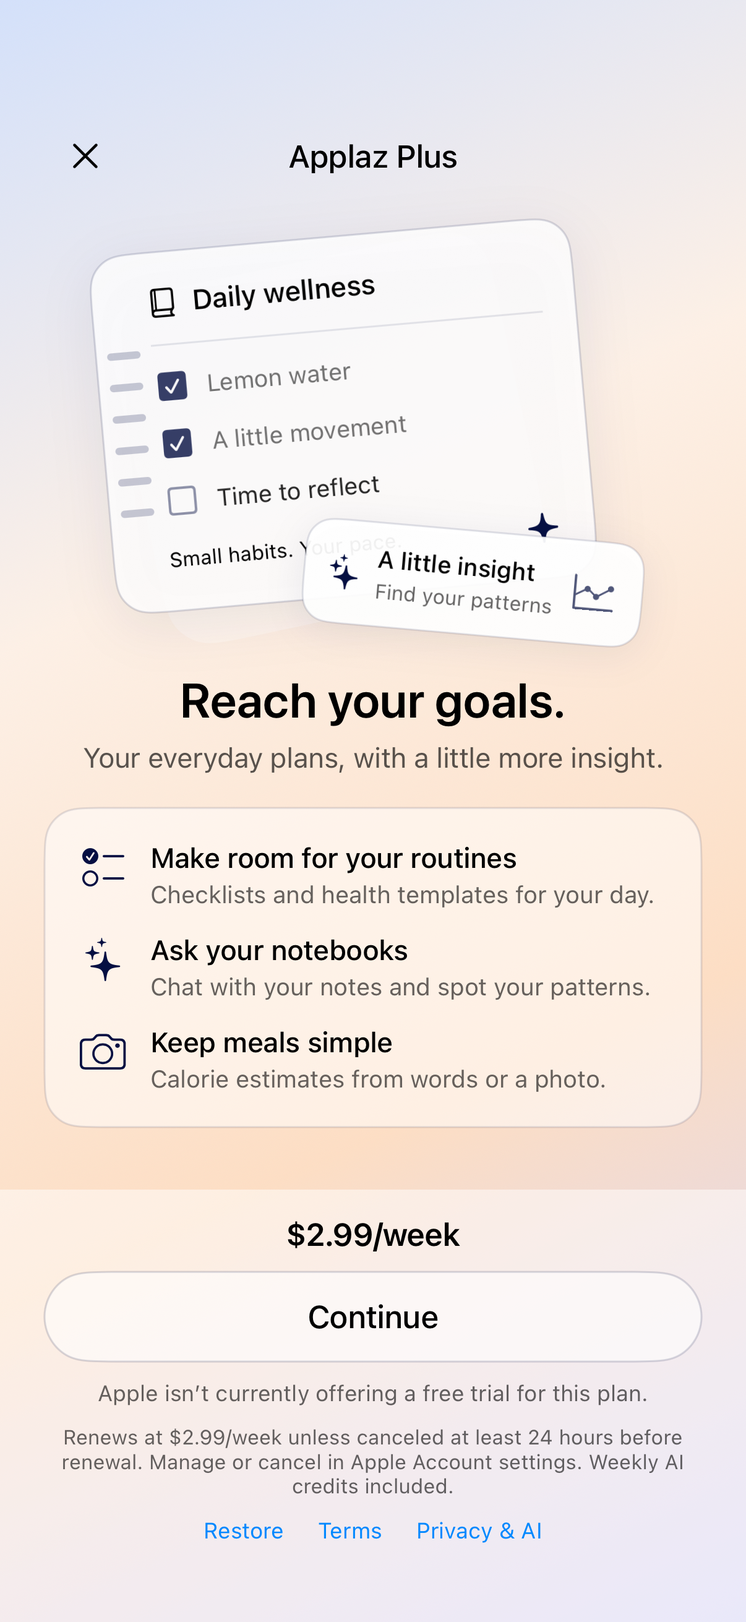
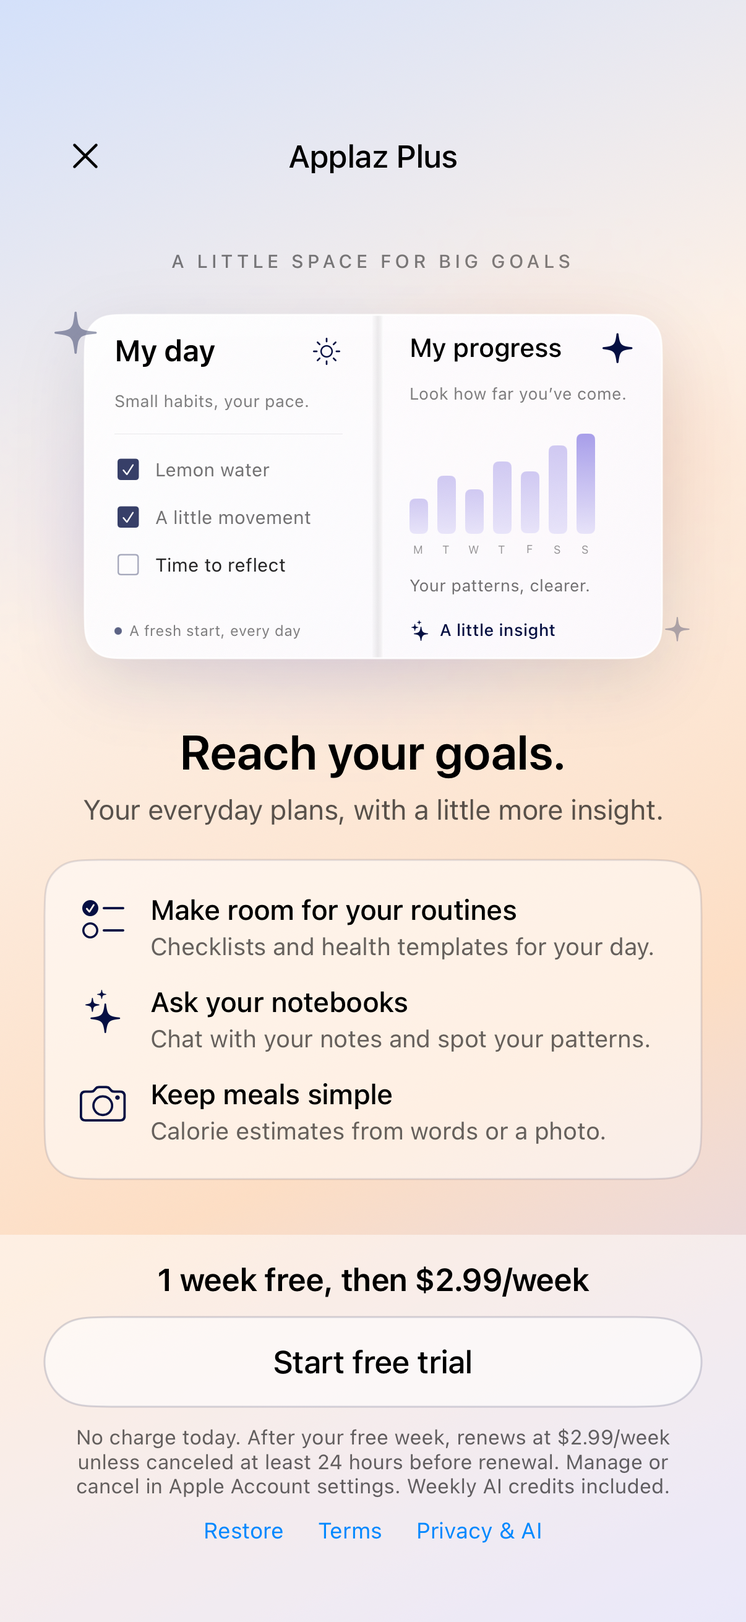
Finish notebook editing lists and redesign the subscription hero and purchase flow

Changed region(s): [[0.0, 0.1545, 0.9511, 0.9268], [0.9204, 0.8032, 0.9511, 0.8341], [0.0614, 0.8032, 0.092, 0.8341]]

diff --git a/Notes/Wellness/WellnessScreens.swift b/Notes/Wellness/WellnessScreens.swift
@@ -58,7 +58,7 @@ struct SubscriptionWelcomeView: View {
                         Spacer()
                         Color.clear.frame(width: 44, height: 44)
                     }
-                    SubscriptionNotebookPreview().frame(height: 220).accessibilityHidden(true)
+                    SubscriptionNotebookPreview().frame(height: 248).accessibilityHidden(true)
                     VStack(spacing: 6) {
                         Text("Reach your goals.").font(.system(size: 26, weight: .semibold))
                         Text("Your everyday plans, with a little more insight.")
@@ -151,44 +151,53 @@ struct SubscriptionWelcomeView: View {
 }
 
 private struct SubscriptionNotebookPreview: View {
+    private let bars: [CGFloat] = [0.35, 0.58, 0.44, 0.72, 0.62, 0.88, 1]
     var body: some View {
-        ZStack {
-            RoundedRectangle(cornerRadius: 26).fill(Color.white.opacity(0.28))
-                .frame(width: 210, height: 192).rotationEffect(.degrees(-12)).offset(x: -24, y: 2)
-            HStack(spacing: 0) {
-                VStack(spacing: 13) {
-                    ForEach(0..<6, id: \.self) { _ in Capsule().fill(Color.applazAccent.opacity(0.22)).frame(width: 18, height: 4) }
-                }.frame(width: 30)
-                VStack(alignment: .leading, spacing: 13) {
-                    HStack { Image(systemName: "book.closed"); Text("Daily wellness").fontWeight(.medium) }.font(.system(size: 15))
-                    Rectangle().fill(Color.applazAccent.opacity(0.1)).frame(height: 1)
-                    row("Lemon water", checked: true)
-                    row("A little movement", checked: true)
-                    row("Time to reflect", checked: false)
-                    HStack { Text("Small habits. Your pace.").font(.system(size: 11)); Spacer(); Image(systemName: "sparkle").foregroundColor(.applazAccent) }
-                }.padding(.vertical, 18).padding(.trailing, 18)
-            }.frame(width: 260).background(Color.white.opacity(0.8))
-                .clipShape(RoundedRectangle(cornerRadius: 19))
-                .overlay(RoundedRectangle(cornerRadius: 19).stroke(Color.applazAccent.opacity(0.15)))
-                .shadow(color: Color.applazAccent.opacity(0.1), radius: 14, y: 7)
-                .rotationEffect(.degrees(-5)).offset(x: -16, y: -10)
-            HStack(spacing: 8) {
-                Image(systemName: "sparkles").foregroundColor(.applazAccent)
-                VStack(alignment: .leading, spacing: 3) {
-                    Text("A little insight").font(.system(size: 13, weight: .medium))
-                    Text("Find your patterns").font(.system(size: 11)).foregroundColor(.black.opacity(0.6))
+        VStack(spacing: 16) {
+            Text("A LITTLE SPACE FOR BIG GOALS").font(.system(size: 10, weight: .medium)).tracking(2).foregroundColor(.black.opacity(0.5))
+            ZStack {
+                Ellipse().fill(Color(red: 0.77, green: 0.74, blue: 1).opacity(0.35)).frame(width: 280, height: 140).blur(radius: 28).offset(x: -22, y: 25)
+                Ellipse().fill(Color(red: 1, green: 0.81, blue: 0.69).opacity(0.45)).frame(width: 180, height: 140).blur(radius: 28).offset(x: 90, y: -15)
+                HStack(spacing: 0) {
+                    VStack(alignment: .leading, spacing: 12) {
+                        HStack { Text("My day").font(.system(size: 16, weight: .semibold)); Spacer(); Image(systemName: "sun.max").font(.system(size: 14, weight: .light)).foregroundColor(.applazAccent) }
+                        Text("Small habits, your pace.").font(.system(size: 9)).foregroundColor(.black.opacity(0.5))
+                        Divider().opacity(0.35)
+                        habit("Lemon water", done: true)
+                        habit("A little movement", done: true)
+                        habit("Time to reflect", done: false)
+                        Spacer(minLength: 0)
+                        HStack(spacing: 4) { Circle().fill(Color.applazAccent.opacity(0.65)).frame(width: 4, height: 4); Text("A fresh start, every day").font(.system(size: 8)).foregroundColor(.black.opacity(0.5)) }
+                    }.padding(16).frame(width: 155, height: 185)
+                    LinearGradient(colors: [.black.opacity(0.015), .black.opacity(0.07), .white.opacity(0.6)], startPoint: .leading, endPoint: .trailing).frame(width: 6, height: 185)
+                    VStack(alignment: .leading, spacing: 10) {
+                        HStack { Text("My progress").font(.system(size: 14, weight: .medium)); Spacer(); Image(systemName: "sparkle").font(.system(size: 17, weight: .light)).foregroundColor(.applazAccent) }
+                        Text("Look how far you’ve come.").font(.system(size: 9)).foregroundColor(.black.opacity(0.5))
+                        HStack(alignment: .bottom, spacing: 5) {
+                            ForEach(Array(bars.enumerated()), id: \.offset) { index, value in
+                                VStack(spacing: 5) {
+                                    RoundedRectangle(cornerRadius: 3).fill(LinearGradient(colors: [Color(red: 0.64, green: 0.60, blue: 0.91).opacity(index == 6 ? 0.95 : 0.5), Color(red: 0.79, green: 0.77, blue: 0.96).opacity(0.4)], startPoint: .top, endPoint: .bottom)).frame(width: 10, height: 54 * value)
+                                    Text(["M", "T", "W", "T", "F", "S", "S"][index]).font(.system(size: 6)).foregroundColor(.black.opacity(0.4))
+                                }
+                            }
+                        }.frame(height: 72, alignment: .bottom)
+                        Text("Your patterns, clearer.").font(.system(size: 9)).foregroundColor(.black.opacity(0.55))
+                        HStack(spacing: 5) { Image(systemName: "sparkles").font(.system(size: 10)); Text("A little insight").font(.system(size: 9, weight: .medium)) }.foregroundColor(.applazAccent).padding(.top, 2)
+                    }.padding(14).frame(width: 150, height: 185)
                 }
-                Image(systemName: "chart.xyaxis.line").font(.system(size: 21, weight: .light)).foregroundColor(.applazAccent.opacity(0.7))
-            }.padding(12).background(Color.white.opacity(0.94)).clipShape(RoundedRectangle(cornerRadius: 15))
-                .overlay(RoundedRectangle(cornerRadius: 15).stroke(Color.applazAccent.opacity(0.12)))
-                .shadow(color: Color.applazAccent.opacity(0.08), radius: 10, y: 4)
-                .rotationEffect(.degrees(5)).offset(x: 54, y: 80)
+                .background(LinearGradient(colors: [.white.opacity(0.97), Color(red: 0.99, green: 0.98, blue: 1).opacity(0.95)], startPoint: .topLeading, endPoint: .bottomTrailing))
+                .clipShape(RoundedRectangle(cornerRadius: 16))
+                .overlay(RoundedRectangle(cornerRadius: 16).stroke(Color.white.opacity(0.9), lineWidth: 1))
+                .shadow(color: Color.applazAccent.opacity(0.12), radius: 18, x: 0, y: 12)
+                Image(systemName: "sparkle").font(.system(size: 24, weight: .ultraLight)).foregroundColor(.applazAccent.opacity(0.4)).offset(x: -160, y: -83)
+                Image(systemName: "sparkle").font(.system(size: 14, weight: .ultraLight)).foregroundColor(.applazAccent.opacity(0.3)).offset(x: 164, y: 77)
+            }.frame(height: 199)
         }.foregroundColor(.black)
     }
-    private func row(_ title: String, checked: Bool) -> some View {
-        HStack(spacing: 9) {
-            Image(systemName: checked ? "checkmark.square.fill" : "square").foregroundColor(.applazAccent.opacity(checked ? 0.8 : 0.45))
-            Text(title).font(.system(size: 13)).foregroundColor(.black.opacity(checked ? 0.55 : 0.85))
+    private func habit(_ title: String, done: Bool) -> some View {
+        HStack(spacing: 7) {
+            Image(systemName: done ? "checkmark.square.fill" : "square").font(.system(size: 13, weight: .light)).foregroundColor(.applazAccent.opacity(done ? 0.8 : 0.35))
+            Text(title).font(.system(size: 10)).foregroundColor(.black.opacity(done ? 0.55 : 0.85))
         }
     }
 }
@@ -248,7 +257,7 @@ struct WellnessLibraryView: View {
                     NavigationLink(destination: notebookDestination(notebook.id)) {
                         HStack { Image(systemName: notebook.kind == "text" ? "book.closed" : "checklist").foregroundColor(.applazAccent); VStack(alignment: .leading, spacing: 4) { Text(notebook.name).font(.headline); Text("\(notebook.isPrivate == false ? "Public" : "Private") · \(notebook.notes.count) \(notebook.notes.count == 1 ? "note" : "notes")").font(.caption).foregroundColor(.black.opacity(0.55)) }; Spacer() }
                     }.buttonStyle(.plain)
-                    Button { inviteID = notebook.id } label: { Image(systemName: "person.badge.plus").font(.system(size: 20, weight: .regular)).frame(width: 36, height: 44) }.accessibilityLabel("Invite friends to " + notebook.name)
+                    Button { inviteID = notebook.id } label: { Image(systemName: "person.2").font(.system(size: 18, weight: .regular)).frame(width: 36, height: 44) }.accessibilityLabel(collaboration.match(kind: "health", sourceID: notebook.id) == nil ? "Invite friends to " + notebook.name : "Friends in " + notebook.name)
                 }.wellnessCard() }
                 ForEach(collaboration.sharedWithMe) { shared in
                     NavigationLink(destination: CollaborativeNotebookView(notebookID: shared.id)) {
@@ -264,7 +273,8 @@ struct WellnessLibraryView: View {
         }}.foregroundColor(.black).tint(.applazAccent).navigationBarHidden(true) }
         .task { await collaboration.refresh() }
         .sheet(isPresented: Binding(get: { inviteID != nil }, set: { if !$0 { inviteID = nil } })) {
-            CollaborationPeoplePicker(done: { people in let id = inviteID; inviteID = nil; guard let id else { return }; Task { do { _ = try await collaboration.invite(kind: "health", sourceID: id, people: people) } catch { invitationError = error.localizedDescription } } }, cancel: { inviteID = nil })
+            if let id = inviteID, let shared = collaboration.match(kind: "health", sourceID: id) { CollaborationMembersView(notebookID: shared.id, notebookName: shared.name) }
+            else { CollaborationPeoplePicker(done: { people in let id = inviteID; inviteID = nil; guard let id else { return }; Task { do { _ = try await collaboration.invite(kind: "health", sourceID: id, people: people) } catch { invitationError = error.localizedDescription } } }, cancel: { inviteID = nil }) }
         }
         .alert("Couldn’t send invitations", isPresented: Binding(get: { invitationError != nil }, set: { if !$0 { invitationError = nil } })) { Button("OK", role: .cancel) {} } message: { Text(invitationError ?? "") }
         .navigationViewStyle(.stack).confirmationDialog("Copy guest notebooks and meals from this device into your signed-in account?", isPresented: $importGuest, titleVisibility: .visible) { Button("Copy my guest work") { store.importGuestWork() } }.sheet(isPresented: $create) { CreateWellnessNotebookView().modifier(WellnessHalfSheet()) }.sheet(isPresented: $chat) { NavigationView { SavedAIChatsView() } }

diff --git a/Notes/Wellness/Collaboration.swift b/Notes/Wellness/Collaboration.swift
@@ -17,6 +17,54 @@ struct CollaborativeNotebook: Decodable, Identifiable {
     var kind: String
     var sourceID: String
     var role: String
+    var editorCount: Int? = nil
+}
+struct CollaborationMember: Decodable, Identifiable {
+    var id: String
+    var name: String
+    var photo: String
+    var role: String
+}
+struct CollaborationMembersView: View {
+    var notebookID: String
+    var notebookName: String
+    var sampleMembers: [CollaborationMember]? = nil
+    @State private var members: [CollaborationMember] = []
+    @State private var error: String?
+    @State private var inviting = false
+    @Environment(\.dismiss) private var dismiss
+    var body: some View {
+        ZStack { WellnessBackground(); VStack(spacing: 20) {
+            HStack { Text("Friends in this notebook").font(.system(size: 17, weight: .medium)); Spacer(); Button("Done") { dismiss() } }
+            Text(notebookName).font(.system(size: 15)).foregroundColor(.black.opacity(0.6)).frame(maxWidth: .infinity, alignment: .leading)
+            ScrollView { VStack(spacing: 0) {
+                ForEach(members) { person in
+                    HStack(spacing: 12) {
+                        Image(systemName: "person.crop.circle").font(.system(size: 27, weight: .light)).foregroundColor(.applazAccent)
+                        Text("@" + person.name).font(.system(size: 16)); Spacer()
+                        Text(person.role == "owner" ? "Owner" : "Can edit").font(.system(size: 12)).foregroundColor(.black.opacity(0.55))
+                    }.padding(.vertical, 15)
+                    Divider().opacity(0.3)
+                }
+                if members.isEmpty && error == nil { ProgressView().padding() }
+                if let error { Text(error).font(.footnote).padding() }
+            }.padding(.horizontal, 16).background(Color.white.opacity(0.55)).clipShape(RoundedRectangle(cornerRadius: 18)) }
+            Button { inviting = true } label: { Label("Invite friends", systemImage: "person.2").font(.system(size: 16)).frame(maxWidth: .infinity).padding(14).background(Color.white.opacity(0.65)).clipShape(Capsule()).overlay(Capsule().stroke(Color.applazAccent.opacity(0.15))) }
+                .accessibilityIdentifier("InviteMoreNotebookFriends")
+        }.padding(22) }.foregroundColor(.black).tint(.applazAccent)
+        .task { await load() }
+        .sheet(isPresented: $inviting, onDismiss: { Task { await load() } }) {
+            CollaborationPeoplePicker(done: { people in inviting = false; guard !people.isEmpty, sampleMembers == nil else { return }; Task { do { _ = try await CollaborationStore.shared.invite(kind: "health", sourceID: "", people: people, notebookID: notebookID) } catch { self.error = error.localizedDescription } } }, cancel: { inviting = false })
+        }
+    }
+    private func load() async {
+        if let sampleMembers { members = sampleMembers; return }
+        #if DEBUG
+        if let samples = CollaborationStore.shared.previewMembers(notebookID) { members = samples; return }
+        #endif
+        do { let result = try await WellnessAPI.call("collaborationMembers", ["notebookID": notebookID]); members = try JSONDecoder().decode([CollaborationMember].self, from: JSONSerialization.data(withJSONObject: result["people"] ?? [])); error = nil }
+        catch { self.error = error.localizedDescription }
+    }
 }
 @MainActor final class CollaborationStore: ObservableObject {
     static let shared = CollaborationStore()
@@ -32,6 +80,9 @@ struct CollaborativeNotebook: Decodable, Identifiable {
         } }
     }
     func refresh() async {
+        #if DEBUG
+        if Auth.auth().currentUser == nil, ProcessInfo.processInfo.environment["APPLAZ_WELLNESS_PREVIEW"] == "collaboration-home-preview" { return }
+        #endif
         guard let uid = Auth.auth().currentUser?.uid else { notebooks = []; ApplazActivityInbox.shared.setCollaborationEvents([]); return }
         guard !refreshing else { return }; refreshing = true; defer { refreshing = false }
         do {
@@ -51,7 +102,22 @@ struct CollaborativeNotebook: Decodable, Identifiable {
             }
         } catch { /* Retain the last visible list while offline. */ }
     }
-    func match(kind: String, sourceID: String) -> CollaborativeNotebook? { notebooks.first { $0.kind == kind && $0.sourceID == sourceID && $0.owner == Auth.auth().currentUser?.uid } }
+    #if DEBUG
+    private var sampleEditingLists: [String: [CollaborationMember]] = [:]
+    func previewMembers(_ id: String) -> [CollaborationMember]? {
+        guard Auth.auth().currentUser == nil, ProcessInfo.processInfo.environment["APPLAZ_WELLNESS_PREVIEW"] == "collaboration-home-preview" else { return nil }; return sampleEditingLists[id]
+    }
+    func loadPreview(_ values: [CollaborativeNotebook], members: [String: [CollaborationMember]]) {
+        guard Auth.auth().currentUser == nil, ProcessInfo.processInfo.environment["APPLAZ_WELLNESS_PREVIEW"] == "collaboration-home-preview" else { return }
+        notebooks = values; sampleEditingLists = members
+    }
+    #endif
+    func match(kind: String, sourceID: String) -> CollaborativeNotebook? {
+        #if DEBUG
+        if Auth.auth().currentUser == nil, ProcessInfo.processInfo.environment["APPLAZ_WELLNESS_PREVIEW"] == "collaboration-home-preview" { return notebooks.first { $0.kind == kind && $0.sourceID == sourceID } }
+        #endif
+        return notebooks.first { $0.kind == kind && $0.sourceID == sourceID && $0.owner == Auth.auth().currentUser?.uid }
+    }
     var sharedWithMe: [CollaborativeNotebook] { notebooks.filter { $0.role != "owner" } }
     func invite(kind: String, sourceID: String, people: [CollaborationPerson], notebookID: String? = nil) async throws -> String {
         var data: [String: Any] = ["kind": kind, "sourceID": sourceID, "recipients": people.map(\.id)]
@@ -89,6 +155,13 @@ struct CollaborativeNotebook: Decodable, Identifiable {
         controller.present(view, animated: true)
     }
     static func invite(kind: String, sourceID: String, notebookID: String? = nil, from controller: UIViewController) {
+        if let shared = notebookID.flatMap({ id in CollaborationStore.shared.notebooks.first { $0.id == id } }) ?? CollaborationStore.shared.match(kind: kind, sourceID: sourceID) {
+            let host = WellnessHostingController(rootView: CollaborationMembersView(notebookID: shared.id, notebookName: shared.name))
+            host.modalPresentationStyle = .pageSheet
+            host.sheetPresentationController?.detents = [.medium(), .large()]
+            controller.present(host, animated: true)
+            return
+        }
         choose(from: controller) { [weak controller] people in
             guard !people.isEmpty else { return }
             Task { do {
@@ -182,10 +255,10 @@ struct CollaborativeNotebookView: View {
             .navigationTitle(notebook?.name ?? "").navigationBarTitleDisplayMode(.inline).navigationBarHidden(false)
             .toolbar {
                 if let close { ToolbarItem(placement: .navigationBarLeading) { Button(action: close) { Image(systemName: "chevron.left") }.accessibilityLabel("Back") } }
-                ToolbarItem(placement: .navigationBarTrailing) { Button { inviting = true } label: { Image(systemName: "person.badge.plus") }.accessibilityLabel("Invite friends") }
+                ToolbarItem(placement: .navigationBarTrailing) { Button { inviting = true } label: { Image(systemName: "person.2") }.accessibilityLabel("Invite friends") }
                 if role == "owner" { ToolbarItem(placement: .navigationBarTrailing) { Menu { Button("Delete notebook", role: .destructive) { deleting = true } } label: { Image(systemName: "ellipsis") } } }
             }
-            .sheet(isPresented: $inviting) { CollaborationPeoplePicker(done: { people in inviting = false; Task { do { _ = try await collaboration.invite(kind: "health", sourceID: "", people: people, notebookID: notebookID) } catch { self.error = error.localizedDescription } } }, cancel: { inviting = false }) }
+            .sheet(isPresented: $inviting) { CollaborationMembersView(notebookID: notebookID, notebookName: notebook?.name ?? "Notebook") }
             .alert("Delete notebook?", isPresented: $deleting) { Button("Delete", role: .destructive) { Task { do { _ = try await WellnessAPI.call("collaborationDelete", ["notebookID": notebookID]); await collaboration.refresh(); await WellnessStore.shared.sync(); if let close { close() } else { dismiss() } } catch { self.error = error.localizedDescription } } }; Button("Cancel", role: .cancel) {} }
             .task {
                 repeat { await load(); do { try await Task.sleep(nanoseconds: 5_000_000_000) } catch { return } } while !Task.isCancelled

diff --git a/Notes/ViewControllers/NoteCategoryListVC.swift b/Notes/ViewControllers/NoteCategoryListVC.swift
@@ -324,8 +324,9 @@ class NoteCategoryListVC: UIViewController, UITableViewDelegate, UITableViewData
         
         cell.btnDelete.removeTarget(self, action: #selector(self.btnDeletePressed(_:)), for: .touchUpInside)
         cell.btnUpdate.removeTarget(self, action: #selector(self.btnUpdatePressed(_:)), for: .touchUpInside)
-        cell.btnUpdate.setImage(UIImage(systemName: "person.badge.plus"), for: .normal)
-        cell.btnUpdate.accessibilityLabel = "Invite friends to notebook"
+        cell.btnUpdate.setImage(UIImage(systemName: "person.2", withConfiguration: UIImage.SymbolConfiguration(pointSize: 18, weight: .regular)), for: .normal)
+        cell.btnUpdate.tintColor = ApplazAppearance.accent
+        cell.btnUpdate.accessibilityLabel = CollaborationStore.shared.match(kind: "legacy", sourceID: note.categoryKey ?? "") == nil ? "Invite friends to notebook" : "Friends in this notebook"
         cell.btnUpdate.removeAction(identifiedBy: UIAction.Identifier("InviteNotebookFriends"), for: .touchUpInside)
         cell.btnUpdate.addAction(UIAction(identifier: UIAction.Identifier("InviteNotebookFriends")) { [weak self, weak cell] _ in
             guard let self, let cell, let row = self.tblViewNoteCateoryTitle.indexPath(for: cell)?.row, let id = self.notes[row].categoryKey else { return }
@@ -475,6 +476,7 @@ class NoteCategoryListVC: UIViewController, UITableViewDelegate, UITableViewData
             var config = UIButton.Configuration.plain()
             config.title = notebook.name
             config.subtitle = (notebook.isPrivate == false ? "Public · " : "Private · ") + String(notebook.notes.count) + " notes"
+            if let count = CollaborationStore.shared.match(kind: "health", sourceID: notebook.id)?.editorCount, count > 0 { config.subtitle = String(notebook.notes.count) + " notes · " + String(count) + (count == 1 ? " friend" : " friends") }
             config.image = UIImage(systemName: notebook.kind == "text" ? "book.closed" : "checklist")
             config.imagePadding = 12; config.baseForegroundColor = .black
             config.background.backgroundColor = ApplazAppearance.surface
@@ -503,8 +505,8 @@ class NoteCategoryListVC: UIViewController, UITableViewDelegate, UITableViewData
             more.menu = UIMenu(children: options)
             more.widthAnchor.constraint(equalToConstant: 44).isActive = true
             let invite = UIButton(type: .system)
-            invite.setImage(UIImage(systemName: "person.badge.plus"), for: .normal); invite.tintColor = ApplazAppearance.accent
-            invite.accessibilityLabel = "Invite friends to " + notebook.name
+            invite.setImage(UIImage(systemName: "person.2", withConfiguration: UIImage.SymbolConfiguration(pointSize: 18, weight: .regular)), for: .normal); invite.tintColor = ApplazAppearance.accent
+            invite.accessibilityLabel = CollaborationStore.shared.match(kind: "health", sourceID: notebook.id) == nil ? "Invite friends to " + notebook.name : "Friends in " + notebook.name
             invite.widthAnchor.constraint(equalToConstant: 36).isActive = true
             invite.addAction(UIAction { [weak self] _ in guard let self else { return }; CollaborationPresentation.invite(kind: "health", sourceID: notebook.id, from: self) }, for: .touchUpInside)
             let row = UIStackView(arrangedSubviews: [button, invite, more]); row.spacing = 2

diff --git a/functions/collaboration/index.js b/functions/collaboration/index.js
@@ -155,10 +155,20 @@ exports.collaborationList = endpoint(async (_, uid) => {
   const notebooks = await Promise.all(index.docs.map(async entry => {
     const ref = shared(entry.id); const [snap, member] = await Promise.all([ref.get(), ref.collection("members").doc(uid).get()]);
     if (!snap.exists || snap.data().deleted || !member.exists) return null;
-    return {...snap.data(), role: member.data().role, snapshotChunks: undefined};
+    const members = await ref.collection("members").get();
+    return {...snap.data(), role: member.data().role, editorCount: members.docs.filter(person => person.data().role === "editor").length, snapshotChunks: undefined};
   }));
   const alerts = await account(uid).collection("collaborationAlerts").get();
   return {notebooks: notebooks.filter(Boolean), alerts: alerts.docs.map(doc => ({eventID: doc.id, ...doc.data()}))};
+});
+exports.collaborationMembers = endpoint(async (data, uid) => {
+  const ref = shared(key(data.notebookID));
+  const [notebook, member] = await Promise.all([ref.get(), ref.collection("members").doc(uid).get()]);
+  policy.requireMember(member.data());
+  if (!notebook.exists || notebook.data().deleted) throw new Error("This notebook is no longer available.");
+  const members = await ref.collection("members").get();
+  const people = await Promise.all(members.docs.map(async person => ({...await profile(person.id), role: person.data().role})));
+  return {people: people.sort((a, b) => (a.role === "owner" ? -1 : b.role === "owner" ? 1 : a.name.localeCompare(b.name)))};
 });
 exports.collaborationRead = endpoint(async (data, uid) => db().runTransaction(async tx => {
   const ref = shared(key(data.notebookID)); const [snap, member] = await Promise.all([tx.get(ref), tx.get(ref.collection("members").doc(uid))]);

diff --git a/Notes/Wellness/SubscriptionCenter.swift b/Notes/Wellness/SubscriptionCenter.swift
@@ -49,7 +49,7 @@ import Security
         loadingProduct = true
         defer { loadingProduct = false }
         message = nil
-        serviceReady = (try? await WellnessAPI.call("wellnessStatus", [:])["ready"] as? Bool) == true
+        Task { serviceReady = (try? await WellnessAPI.call("wellnessStatus", [:])["ready"] as? Bool) == true }
         do {
             product = try await Product.products(for: [Self.productID]).first
             guard let loaded = product else {
@@ -72,7 +72,6 @@ import Security
                 eligibleTrial = false
                 trialUnavailableReason = "Apple isn’t currently offering a free trial for this plan."
             }
-            if !serviceReady { message = "We couldn’t connect to your membership. Tap Continue to try again." }
         } catch {
             message = "Apple couldn’t load this subscription. Check your connection and tap Continue to try again."
         }
@@ -82,8 +81,8 @@ import Security
         guard !busy, !loadingProduct else { return false }
         busy = true; message = nil
         defer { busy = false }
-        if product == nil || !serviceReady { await loadProduct() }
-        guard serviceReady, let product else {
+        if product == nil { await loadProduct() }
+        guard let product else {
             if message == nil { message = "We couldn’t connect to Apple. Please try again." }
             return false
         }

diff --git a/Notes/Storyboards/UtilityManager/Gradient Layer.swift b/Notes/Storyboards/UtilityManager/Gradient Layer.swift
@@ -596,8 +596,10 @@ final class NewNotebookViewController: UIViewController {
             control.heightAnchor.constraint(equalToConstant: 42).isActive = true
             return row
         }
-        inviteFriendsButton.setTitle("Invite friends", for: .normal)
-        inviteFriendsButton.setImage(UIImage(systemName: "person.badge.plus"), for: .normal)
+        var friendsConfig = UIButton.Configuration.plain()
+        friendsConfig.title = "Invite friends"; friendsConfig.image = UIImage(systemName: "person.2", withConfiguration: UIImage.SymbolConfiguration(pointSize: 18, weight: .regular)); friendsConfig.imagePadding = 8
+        friendsConfig.baseForegroundColor = ApplazAppearance.accent
+        inviteFriendsButton.configuration = friendsConfig
         inviteFriendsButton.tintColor = ApplazAppearance.accent
         inviteFriendsButton.titleLabel?.font = ApplazAppearance.font(15)
         inviteFriendsButton.accessibilityIdentifier = "NewNotebookFriends"

diff --git a/docs/Applaz-Plus-activation.md b/docs/Applaz-Plus-activation.md
@@ -132,3 +132,14 @@ firebase emulators:exec --project demo-applaz-collab --config functions/test/emu
 The harness refuses non-local emulator hosts and uses fictional accounts only.
 
 Shared legacy photo mirroring also preserves checklist fields and separate attachment records; the local emulator regression check passed. Shared notebook navigation retains Back and the notebook bottom menu. Fresh invitations can reappear after an earlier decline.
+
+
+## Editing list and purchase button — build 1.0.16 (15)
+
+Notebook collaboration uses the same outlined person.2 symbol family as the social controls, with an 18-point row icon and proper spacing in New Notebook. Once a notebook is shared, this button opens Friends in this notebook. The list shows the owner and accepted editors and includes Invite friends. Notebook rows show the accepted friend count. The private collaborationMembers endpoint checks membership before returning the list; pending and uninvited users cannot read it. Owner-only notebook deletion is unchanged.
+
+The subscription hero is an open notebook spread with a daily checklist, a weekly progress illustration, soft background light and small AI stars, replacing the stacked-card artwork. The trial label is 1 week free, then the Apple-localized price per week for eligible introductory offers; the default US plan is $2.99 weekly. Returning or ineligible customers receive the price Apple actually offers. The purchase button no longer waits for wellnessStatus or requires serviceReady before calling StoreKit purchase. Apple transaction verification and account entitlement syncing still run after purchase. This fixes the app-side blocking condition without fabricating Apple trial eligibility or changing App Store Connect.
+
+The simulator build, eighteen policy checks, ESLint and local Firebase invitation/member-list integration passed. The editing-list endpoint and accepted friend counts are deployed to applaz-32772. Preview helpers are restricted to Debug, an explicit local preview environment and a signed-out account; they cannot grant production access.
+
+The accepted editing-list navigation and the subscription trial/purchase checks passed in the native simulator. Apple local StoreKit testing used product 299, a one-week free introductory offer and a $2.99 weekly price; tapping the real app button created the expected local StoreKit transaction with no charge. This is local purchase verification, not a claim that a production Apple Account was charged or that an App Store Connect offer was changed.
